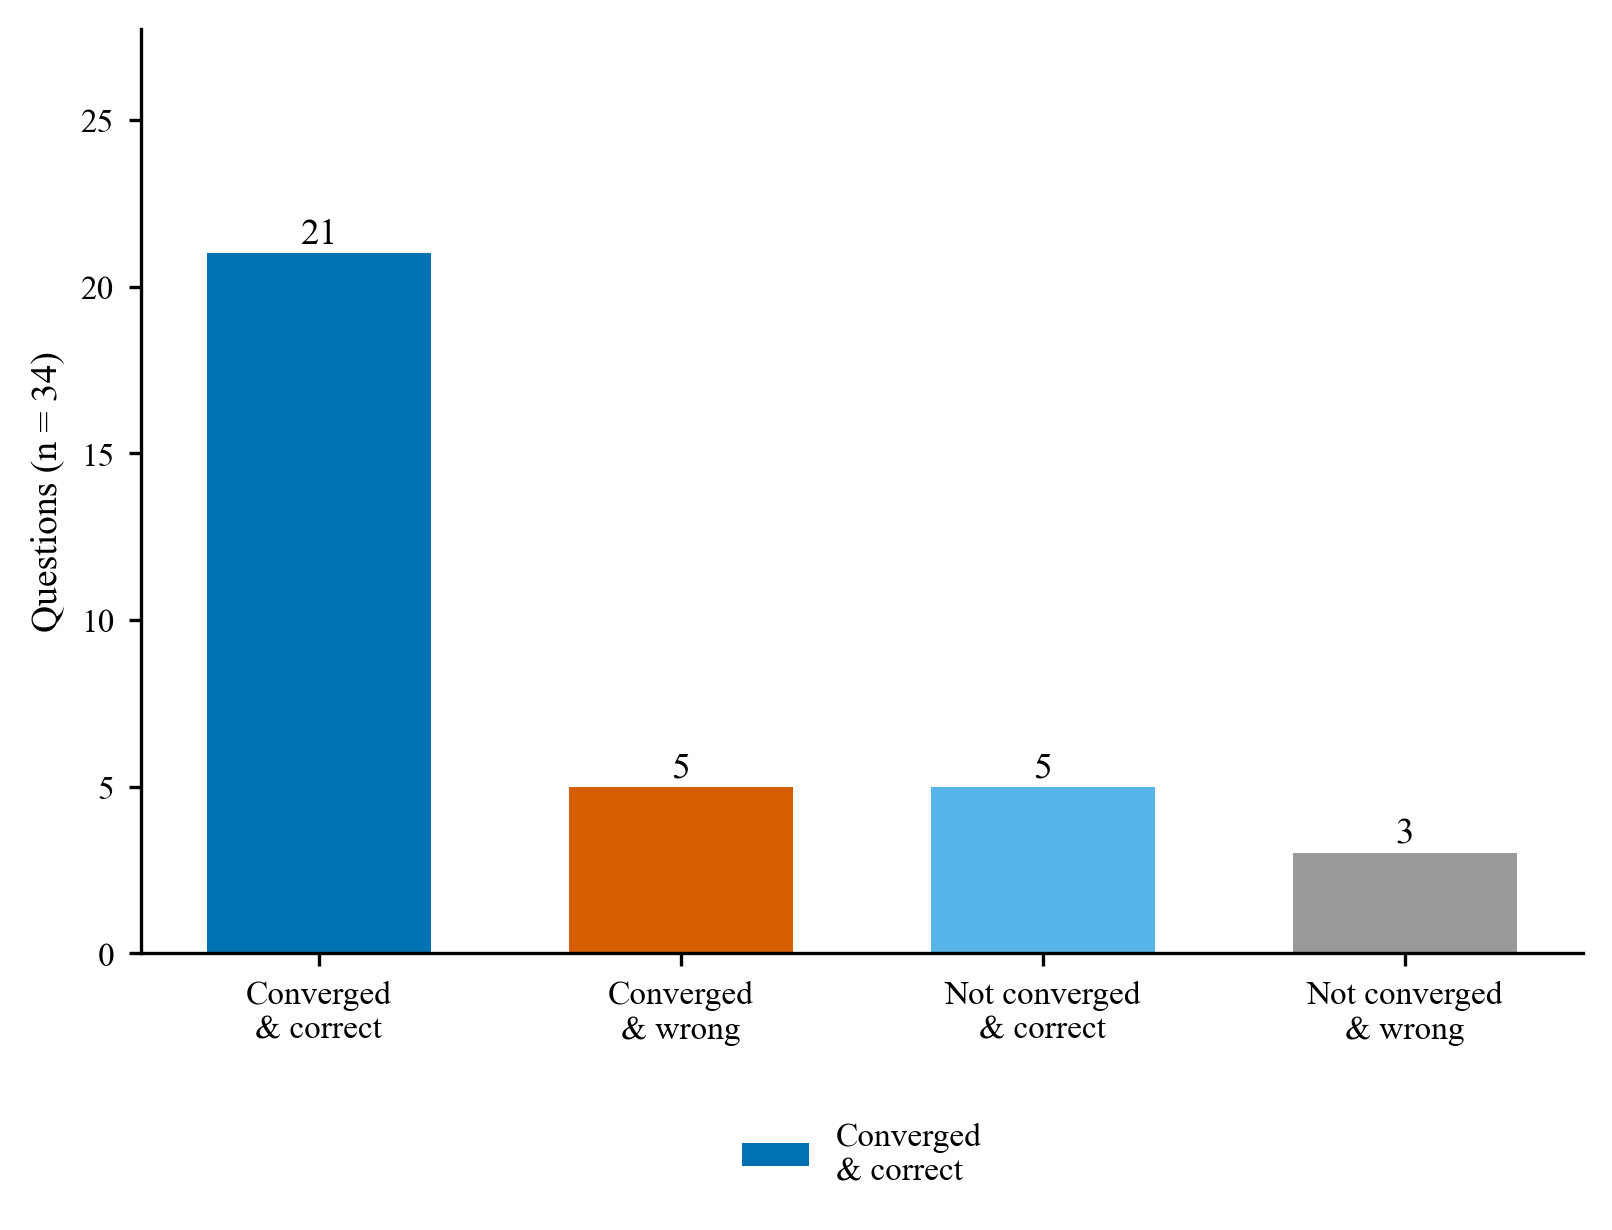
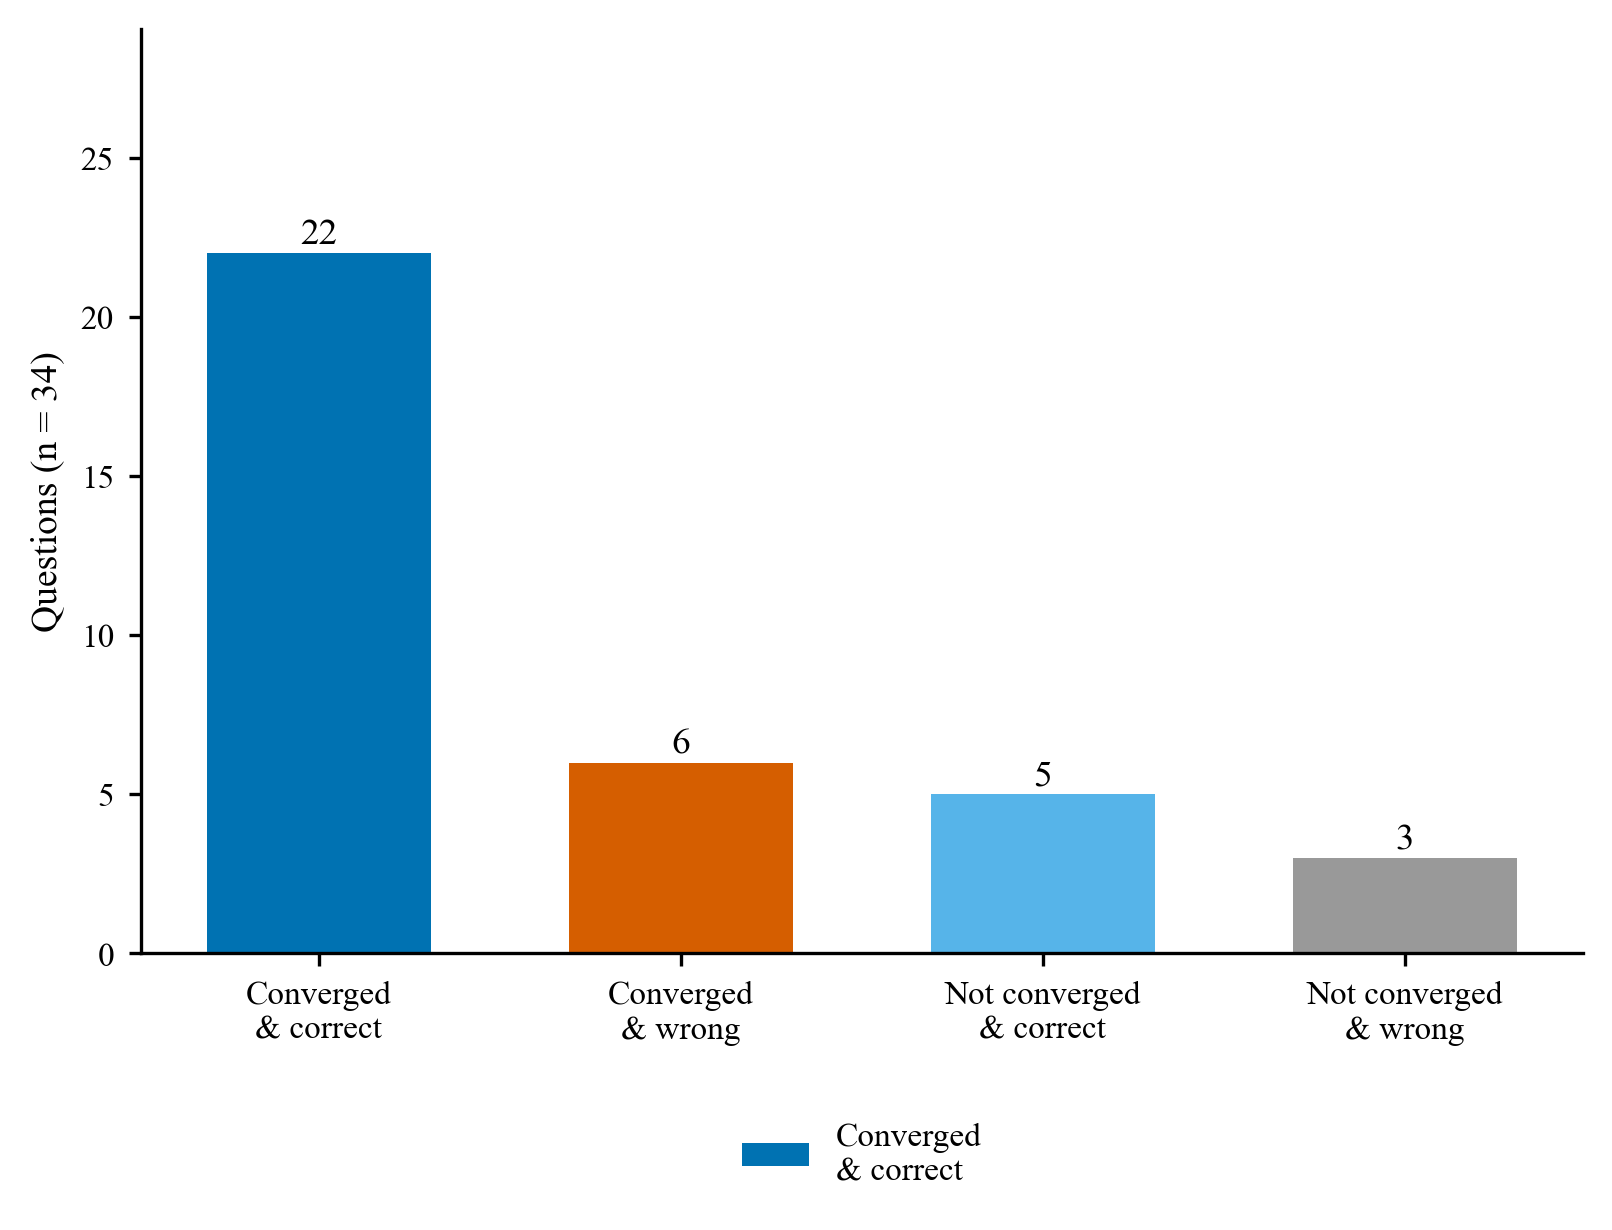
docs(report): 并入补充 hidden 后新暴露的 2 道答案错题的 ReAct 修正结果
- refine_wrong_t0 样本 34→36（A1169/C2063 就地追加，无单独文件）
- 文本收敛 26→28、最终答案修对 26→27；四象限 真收敛 21→22、假收敛 5→6
- 平台/难度表、轮次分布（1轮25/2轮1/3轮10）、Fig.3 说明同步；fig4 重绘
- A1169：1 轮即判 CORRECT 但全量仍 60%（假收敛，与其 eval 期漏检同源）；C2063：3 轮真收敛全量通过

diff --git a/reports/REPORT.md b/reports/REPORT.md
@@ -190,14 +190,13 @@ Al…
 
 ### 5.1 针对答案错样本的 ReAct 修正（真实度补偿，2026-09-09）
 
-测试对象是 temperature=0 正式评测中 `answer_correct=False` 的全部 34 题。与纯文本 refine 相比，每轮反馈除 verifier 审查文本（findings→修订指令，仅 fatal 驱动）外，还附上非隐藏样例的沙盒执行结果（失败用例的输入、期望输出与实际输出），作为客观观察；重验证时通过 `execution_feedback` 喂给双视角与 ARBITER（公开样例失败时不得判 CORRECT）。终局用全部用例（含 hidden）沙盒复核答案真值，记录见 `data/outputs/refine_wrong_t0.jsonl`，脚本 `scripts/run_refine_wrong_t0.py`。
-
+测试对象是 temperature=0 正式评测中 `answer_correct=False` 的全部 36 题。与纯文本 refine 相比，每轮反馈除 verifier 审查文本（findings→修订指令，仅 fatal 驱动）外，还附上非隐藏样例的沙盒执行结果（失败用例的输入、期望输出与实际输出），作为客观观察；重验证时通过 `execution_feedback` 喂给双视角与 ARBITER（公开样例失败时不得判 CORRECT）。终局用全部用例（含 hidden）沙盒复核答案真值，记录见 `data/outputs/refine_wrong_t0.jsonl`，脚本 `scripts/run_refine_wrong_t0.py`。（样本数由 34 增至 36：2026-09-10 补充 hidden 后新暴露的两道答案错题 A1169/C2063 已并入。）
 
 | 指标 | 数值 |
 |---|---|
-| 修正样本数（全部答案错） | 34 |
-| 文本收敛（verdict → CORRECT） | 26（76.5%） |
-| 最终答案修对（全量含 hidden 沙盒） | 26（76.5%） |
+| 修正样本数（全部答案错） | 36 |
+| 文本收敛（verdict → CORRECT） | 28（77.8%） |
+| 最终答案修对（全量含 hidden 沙盒） | 27（75.0%） |
 
 
 文本收敛与沙盒真值交叉：两者一致为完全成功，其余三类是边界样本。
@@ -205,7 +204,7 @@ Al…
 
 | | 最终答案修对 | 最终仍错 |
 |---|---|---|
-| 文本收敛 | 21（真收敛） | 5（假收敛：hidden 缺陷仍在） |
+| 文本收敛 | 22（真收敛） | 6（假收敛：hidden 缺陷仍在） |
 | 未文本收敛 | 5（修对但评估器未认可） | 3（未改善） |
 
 
@@ -213,8 +212,8 @@ Al…
 
 | 子集 | 样本 | 文本收敛 | 最终修对 |
 |---|---|---|---|
-| ABC 自建 | 10 | 9（90.0%） | 7（70.0%） |
-| CF 自建 | 24 | 17（70.8%） | 19（79.2%） |
+| ABC 自建 | 11 | 10（90.9%） | 7（63.6%） |
+| CF 自建 | 25 | 18（72.0%） | 20（80.0%） |
 
 
 按难度：
@@ -223,18 +222,18 @@ Al…
 |---|---|---|---|
 | basic | 4 | 4（100.0%） | 2（50.0%） |
 | medium | 10 | 8（80.0%） | 7（70.0%） |
-| hard | 20 | 14（70.0%） | 17（85.0%） |
+| hard | 22 | 16（72.7%） | 18（81.8%） |
 
 
-修正轮次分布：1 轮 24 题，2 轮 1 题，3 轮 9 题
+修正轮次分布：1 轮 25 题，2 轮 1 题，3 轮 10 题
 
 
-文本收敛与沙盒真值一致才算完全成功；5 题文本收敛但 hidden 仍错（假收敛），反映评估器只能看到公开用例；5 题沙盒已修对但评估器未判收敛，是定位与接受滞后的另一侧证据。本节同时是过程评估定位质量的下游观察面，与第 6 节定位准确率相互印证。
+文本收敛与沙盒真值一致才算完全成功；6 题文本收敛但 hidden 仍错（假收敛），反映评估器只能看到公开用例；5 题沙盒已修对但评估器未判收敛，是定位与接受滞后的另一侧证据。本节同时是过程评估定位质量的下游观察面，与第 6 节定位准确率相互印证。新并入的 2 例一正一反：`C2063` 3 轮真收敛（复杂度缺陷修正后全量通过），`A1169` 1 轮即判 CORRECT 但全量仍 60%——与它的 eval 期漏检同源，说明"公开用例全过"时评估器容易接受未经验证的推理链。
 
 
 ![fig4](figures/fig4_refine_outcome.png)
 
-**Fig. 3** 34 个答案错样本经 ReAct 修正后的四象限分布：柱顶为样本数，色块含义见图例。真收敛（收敛且最终全对）21 题；文本收敛但 hidden 仍错与修对但未获评估器认可各 5 题，构成文本判定与沙盒真值的两条边界。
+**Fig. 3** 36 个答案错样本经 ReAct 修正后的四象限分布：柱顶为样本数，色块含义见图例。真收敛（收敛且最终全对）22 题；文本收敛但 hidden 仍错 6 题、修对但未获评估器认可 5 题，构成文本判定与沙盒真值的两条边界。
 
 
 过程性修正记录（2026-09-09）：
